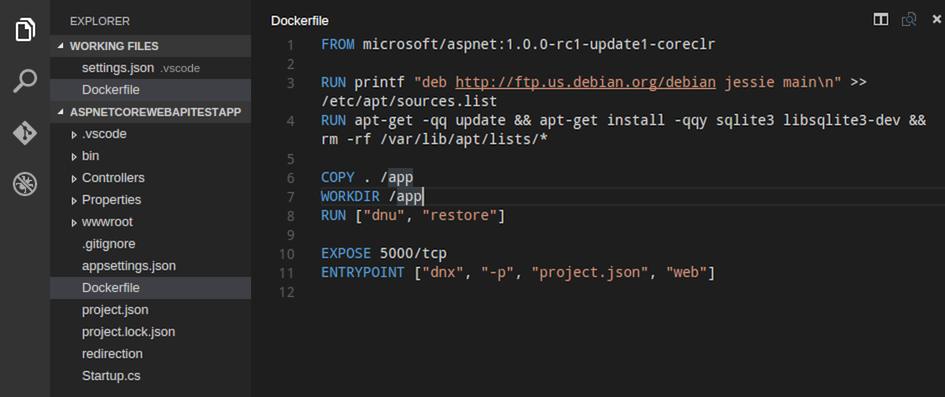
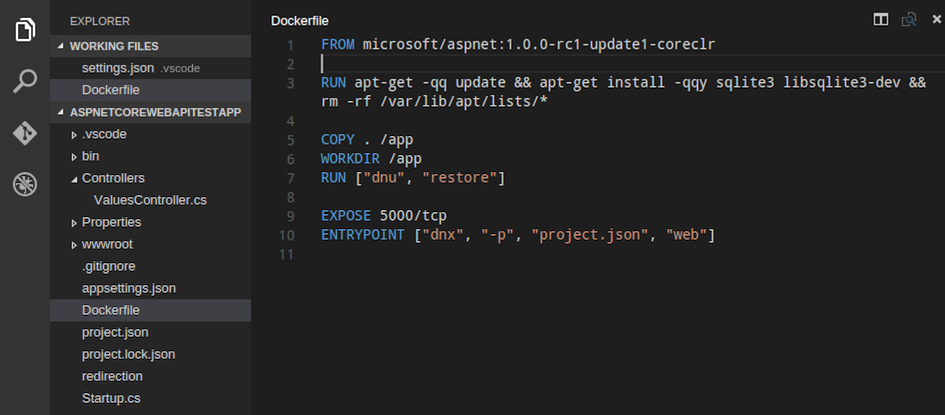
updates to remove the duplicate deb source

diff --git a/Step5.md b/Step5.md
@@ -209,6 +209,12 @@ Great news! We already have a `Dockerfile` prepared for us by `Yeoman` and the A
 
 __Note:__ We need to be careful as the [default base image](https://hub.docker.com/r/microsoft/aspnet/) `microsoft/aspnet:1.0.0-rc1-update1` targets Mono not CoreCLR. The image we need is `microsoft/aspnet:1.0.0-rc1-update1-coreclr`. Let's update our `Dockerfile` accordingly.
 
+Also let's __remove__ the following line as it's a duplicate from the [CoreCLR base image](https://github.com/aspnet/aspnet-docker/blob/master/1.0.0-rc1-update1-coreclr/Dockerfile).
+
+```
+RUN printf "deb http://ftp.us.debian.org/debian jessie main\n" >> /etc/apt/sources.list
+```
+
 ![17-aspnet-core-dockerfile-2](Step5/17-aspnet-core-dockerfile-2.png)
 
 #### Building your container and application
